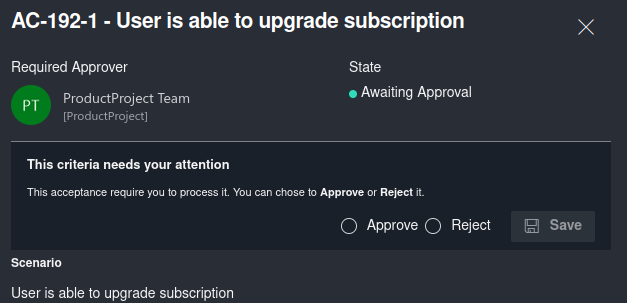
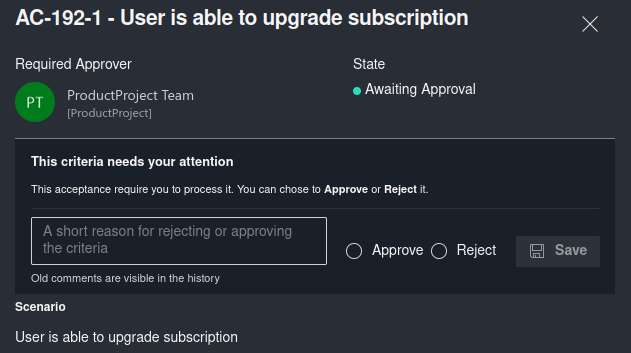
acceptance-criterias: Add history (#10)

diff --git a/src/css/custom.css b/src/css/custom.css
@@ -6,7 +6,7 @@
 
 /* You can override the default Infima variables here. */
 :root {
-  --ifm-color-primary: #d83a4c;
+  --ifm-color-primary: #3074c7;
   --ifm-color-primary-dark: #29784c;
   --ifm-color-primary-darker: #277148;
   --ifm-color-primary-darkest: #205d3b;

diff --git a/docs/extensions/acceptance-criterias/processing/index.md b/docs/extensions/acceptance-criterias/processing/index.md
@@ -6,12 +6,6 @@ The following diagram shows the approval flow for acceptance criterias.
 
 If a criteria has approvers assigned, only the user or a member of the approver group can complete the criteria, when no approvers is assigned, anyone can complete it. Processing can be done from the Criteria Details view.
 
-:::info Approval and Rejection comments
-
-Approval and rejection comments are not available yet, but on the [Roadmap](https://github.com/joachimdalen/azdevops-acceptance-criterias/issues/4)
-
-:::
-
 ## Completing
 
 The criteria goes into the `Completed` state when no approvers is assigned.
@@ -30,9 +24,13 @@ When a criteria is assigned an approver, the criteria goes into the approval flo
 
 Once a Team or Permission Group is assigned as an approver, only one member needs to approve.
 
-| ![](/img/acceptance-criterias/scenario-criteria-send-to-approval.png) | ![](/img/acceptance-criterias/scenario-criteria-approve-or-reject.png) |
-| --------------------------------------------------------------------- | ---------------------------------------------------------------------- |
-| Send the criteria to approval by selecting `Send to approval`         | Processing can now be done by a member of the required approvers group |
+| ![](/img/acceptance-criterias/scenario-criteria-send-to-approval.png)                                                                  | ![](/img/acceptance-criterias/scenario-criteria-approve-or-reject.png)                                         |
+| -------------------------------------------------------------------------------------------------------------------------------------- | -------------------------------------------------------------------------------------------------------------- |
+| Send the criteria to approval by selecting `Send to approval`. Processing can now be done by a member of the required approvers group. | The approver can now chose to reject or approve the criteria. Optionally a comment can be added with a reason. |
+
+### Comments
+
+The main comment will show at the top. Old comments can be found under the [history](./history.md) tab of the criteria.
 
 ### Rejection
 

diff --git a/docs/extensions/acceptance-criterias/processing/history.md b/docs/extensions/acceptance-criterias/processing/history.md
@@ -1,0 +1,15 @@
+# History
+
+A simple history is kept over the different processing events. The history is visible under the history tab when there exists at least 1 history element.
+
+The following events will show in the history:
+
+| Event                 | Comment                                                                           |
+| --------------------- | --------------------------------------------------------------------------------- |
+| `Completed Criteria`  | When the criteria is completed or the criteria is sent for approval               |
+| `Reset back to new`   | When the criteria has been completed/approved/rejected and then reset back to new |
+| `Approved criteria`   | When the criteria is approved                                                     |
+| `Rejected criteria`   | When the criteria is rejected                                                     |
+| `Send to re approval` | When the criteria is sent back to approval after being rejected                   |
+
+![](/img/acceptance-criterias/history.png)
